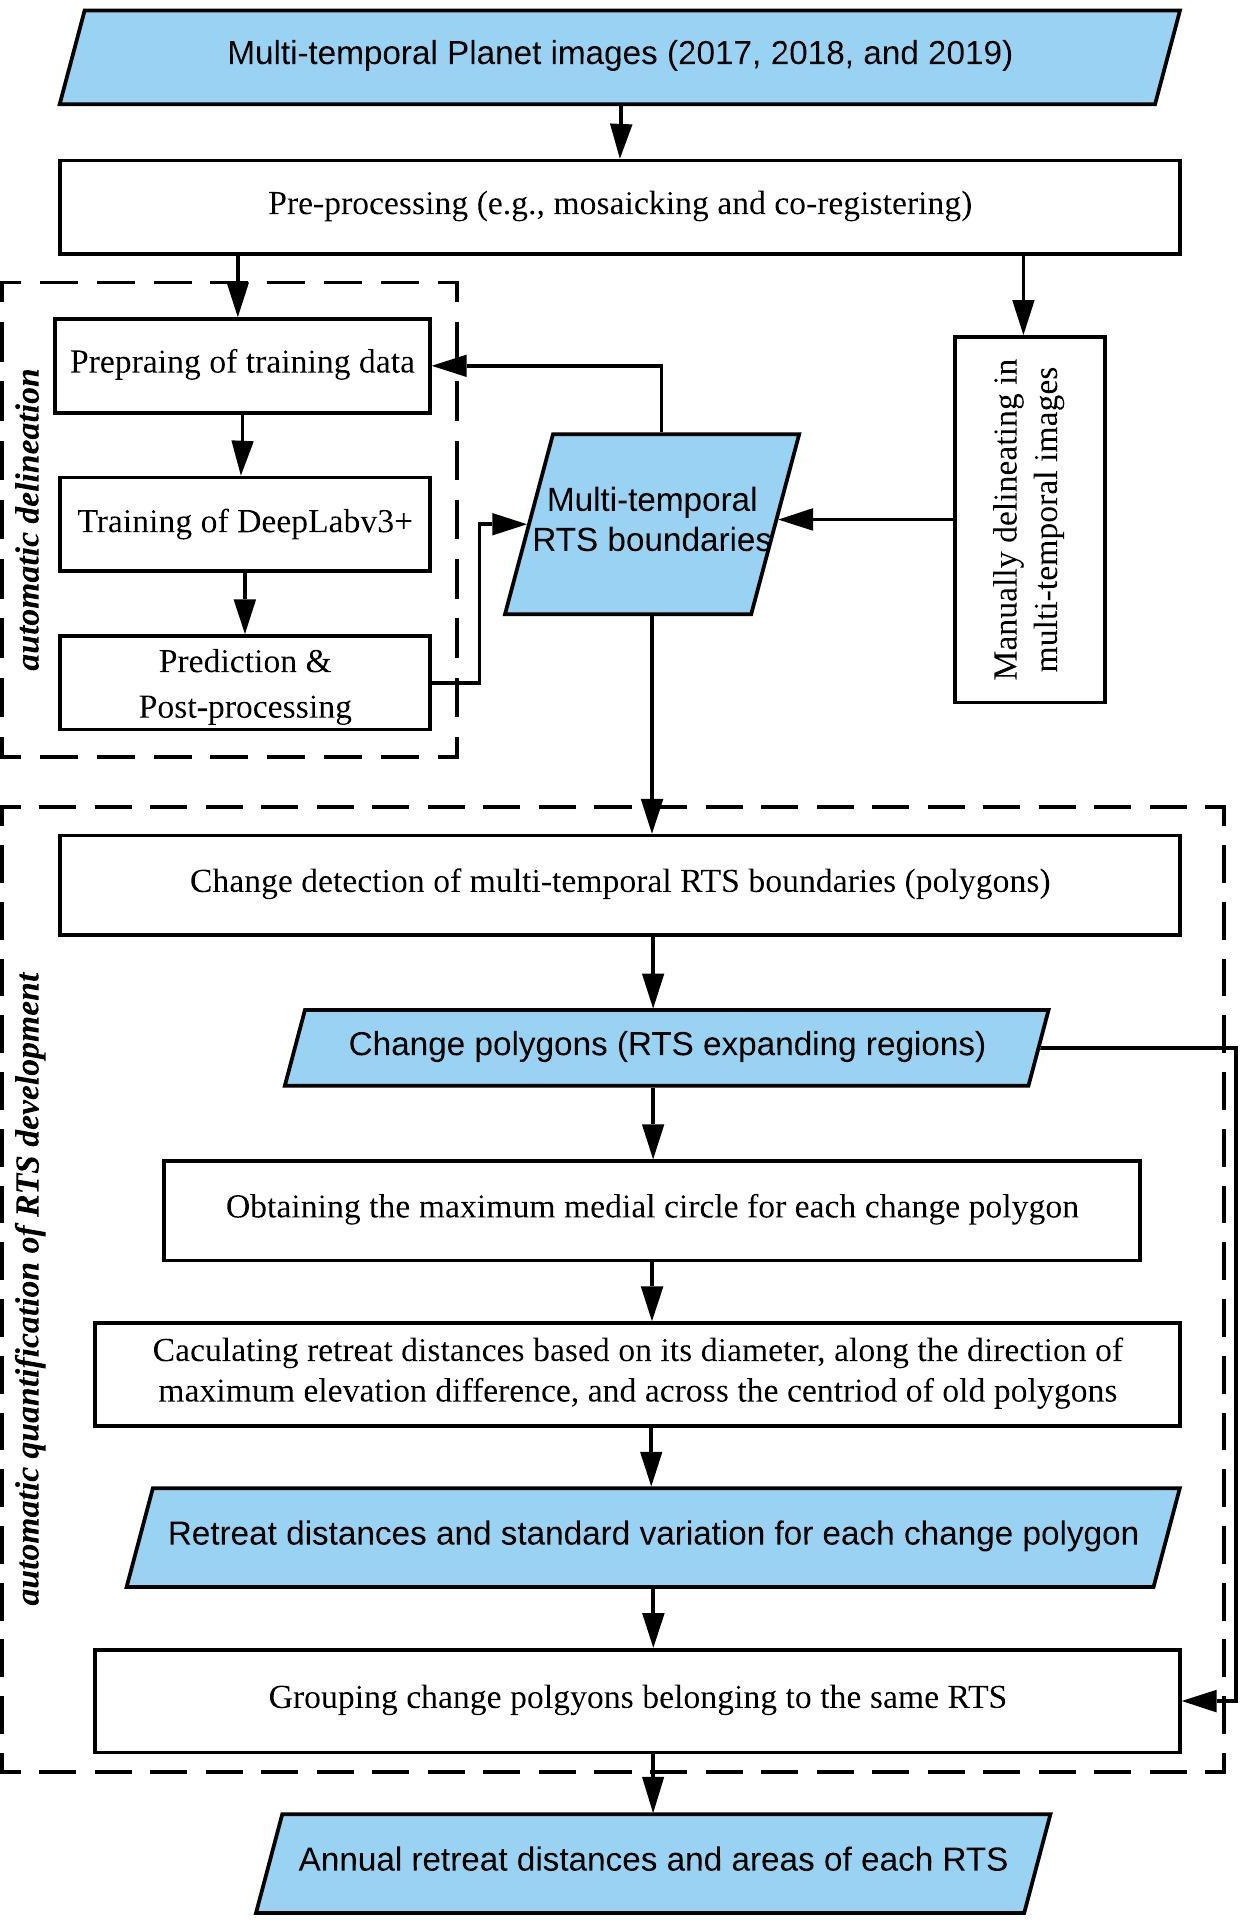
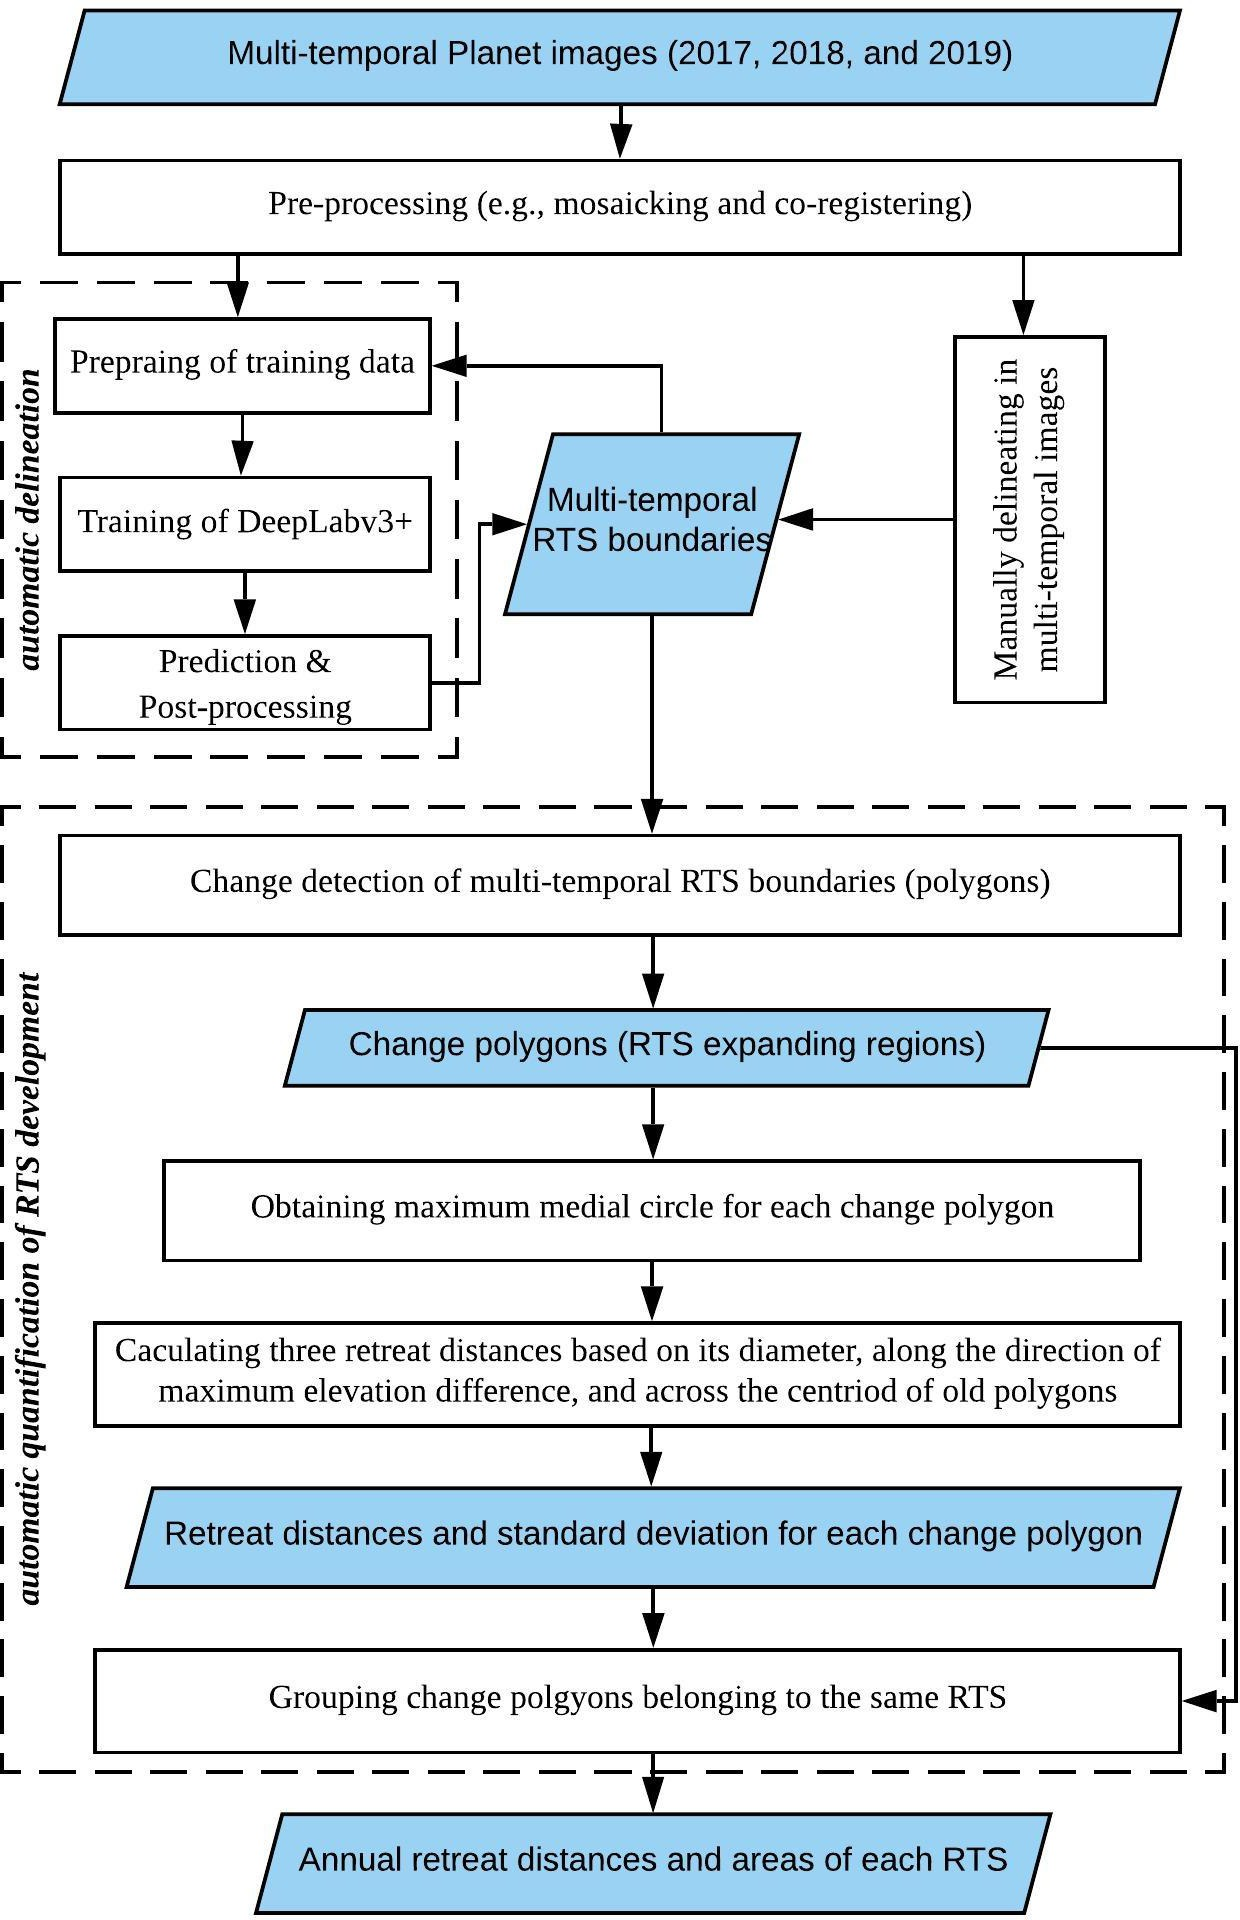
revised figures

Changed region(s): [[0.0919, 0.6875, 0.9194, 0.7188], [0.1226, 0.7812, 0.9194, 0.8125], [0.1839, 0.625, 0.8581, 0.6562]]

diff --git a/polygon_based_rts_changeDet.tex b/polygon_based_rts_changeDet.tex
@@ -144,7 +144,7 @@ Moreover, this study gives the very first quantitative report on RTS development
 
 %% MSC codes here, in the form: \MSC code \sep code
 %% or \MSC[2008] code \sep code (2000 is the default)
-Change Detection \sep CubeSat  \sep Deep Learning \sep Permafrost \sep Retrogressive Thaw Slumps.
+Change Detection  \sep Deep Learning \sep Medial Axis Transform \sep Permafrost \sep Retrogressive Thaw Slumps.
 
 \end{keyword}
 
@@ -305,7 +305,7 @@ Year & Acquisition dates & Number  \\
 \begin{figure}
 	\centering
 	\includegraphics[width=9cm]{figs/polygon_based_change_detection_flowchart.jpg}
-	\caption{Flowchart of automatic quantification of RTS development on multi-temporal images. The automated process includes three sections: (1) pre-processing of multi-temporal Planet images, (2) automatic delineation, and (3) automatic quantification of RTS development.}
+	\caption{Flowchart of automatic quantification of RTS development on multi-temporal images. The automated process includes three major steps: (1) pre-processing of multi-temporal Planet images, (2) automatic delineation, and (3) automatic quantification of RTS development.}
 	\label{fig_flowchart}
 \end{figure}
 
@@ -857,7 +857,7 @@ Although automatic delineation misses some RTSs and produces many inaccurate bou
 However, to delineate RTS boundaries on multi-temporal images is more challenging than to identify their location or on one-year images. 
 In this study, the targets are not only locations and extents of 342 RTSs in Beiluhe, but also their boundaries in different years, that is, $342\times3$ RTS boundaries from 2017 to 2019.
 As shown in section \ref{sec_compare_with_201805_results}, the F1 scores derived from multi-temporal images are slightly worse than one-year results, indicating the challenges of mapping RTSs in multi-temporal images. 
-The possible reasons include (1) the inconsistent features of the same RTS in different images may lower the performance of the trained model 
+The possible reasons include (1) the inconsistent features of the same RTS in different images may reduce the performance of the trained model 
 and (2) inaccurately mapped boundaries cannot meet the requirement of RTS dynamic features. 
 These reasons are related to the mapping strategy, that is, training a single model and removing false mapped polygons by applying RTS dynamic features.  
 Alternatively, we may adopt other strategies such as training multiple models, one model for each year,  which is still manageable when images only span a few years.
